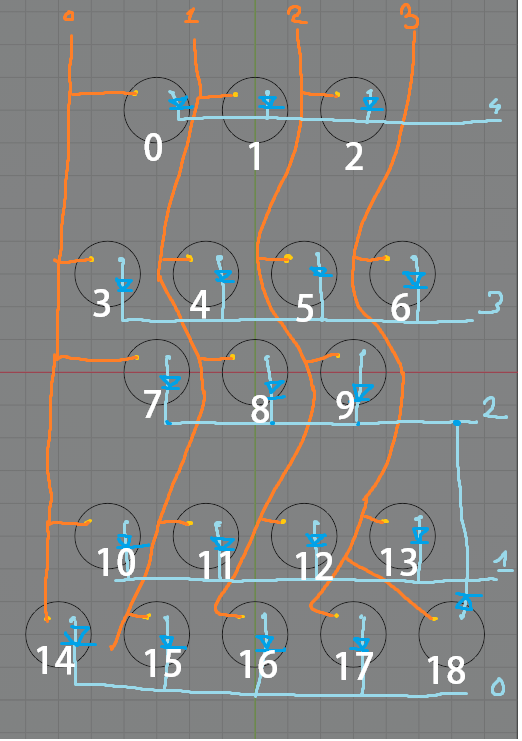
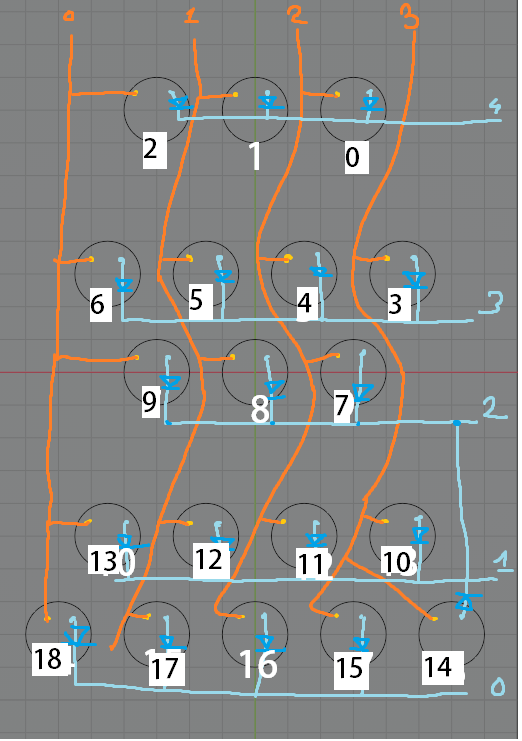
Ring dispenser mirrored

diff --git a/RingDispenser/src/main.cpp b/RingDispenser/src/main.cpp
@@ -19,10 +19,10 @@ constexpr u8 PIN_ROWS[row_count]       = {32, 33, 25, 26, 27};
 // each ring [0, 18]. These indices are used to set and reset bits inside a u32,
 // so 31 is used to note an invalid index.
 constexpr u8 rings_remap[column_count * row_count] = {
-    14, 10, 7,  3, 0,  //
-    15, 11, 8,  4, 1,  //
-    16, 12, 9,  5, 2,  //
-    17, 13, 18, 6, 31, //
+    18, 13, 9,  6, 2,  //
+    17, 12, 8,  5, 1,  //
+    16, 11, 7,  4, 0,  //
+    15, 10, 14, 3, 31, //
 };
 #endif
 
